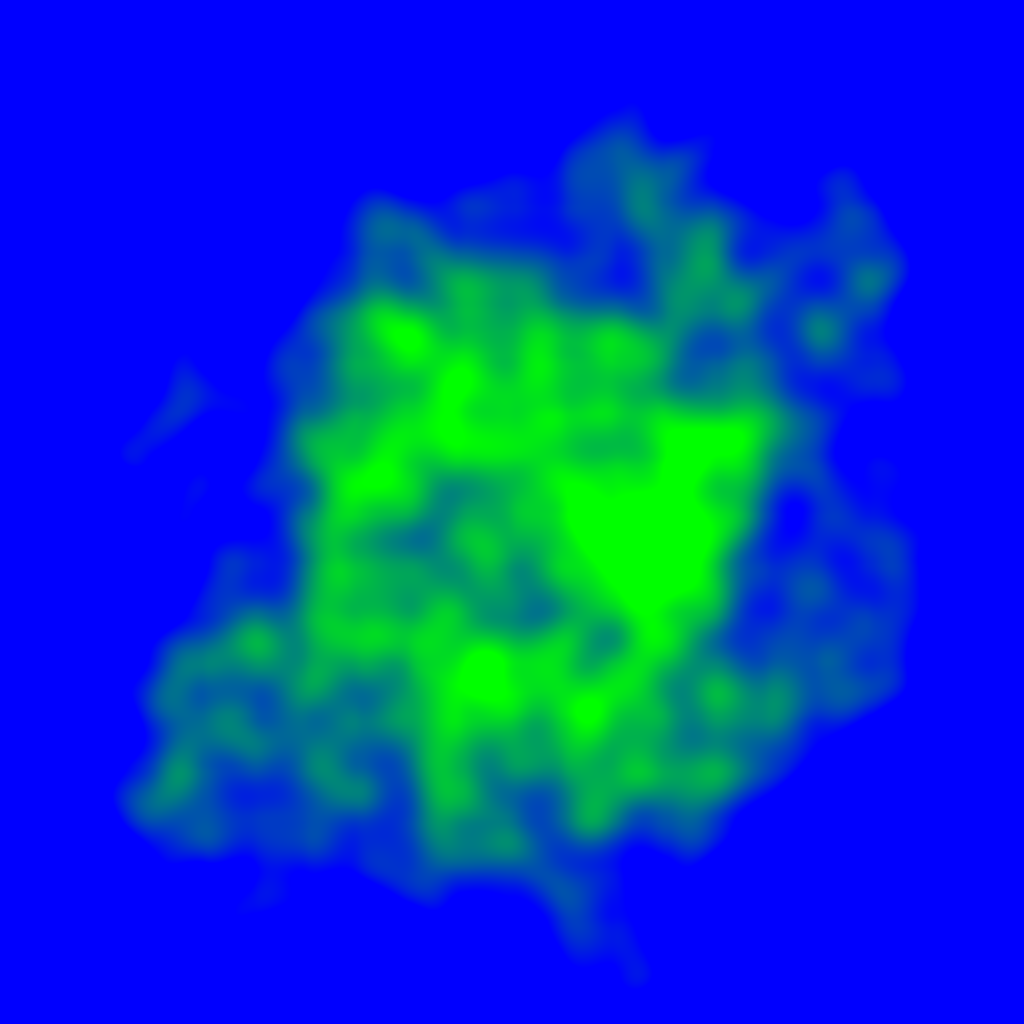
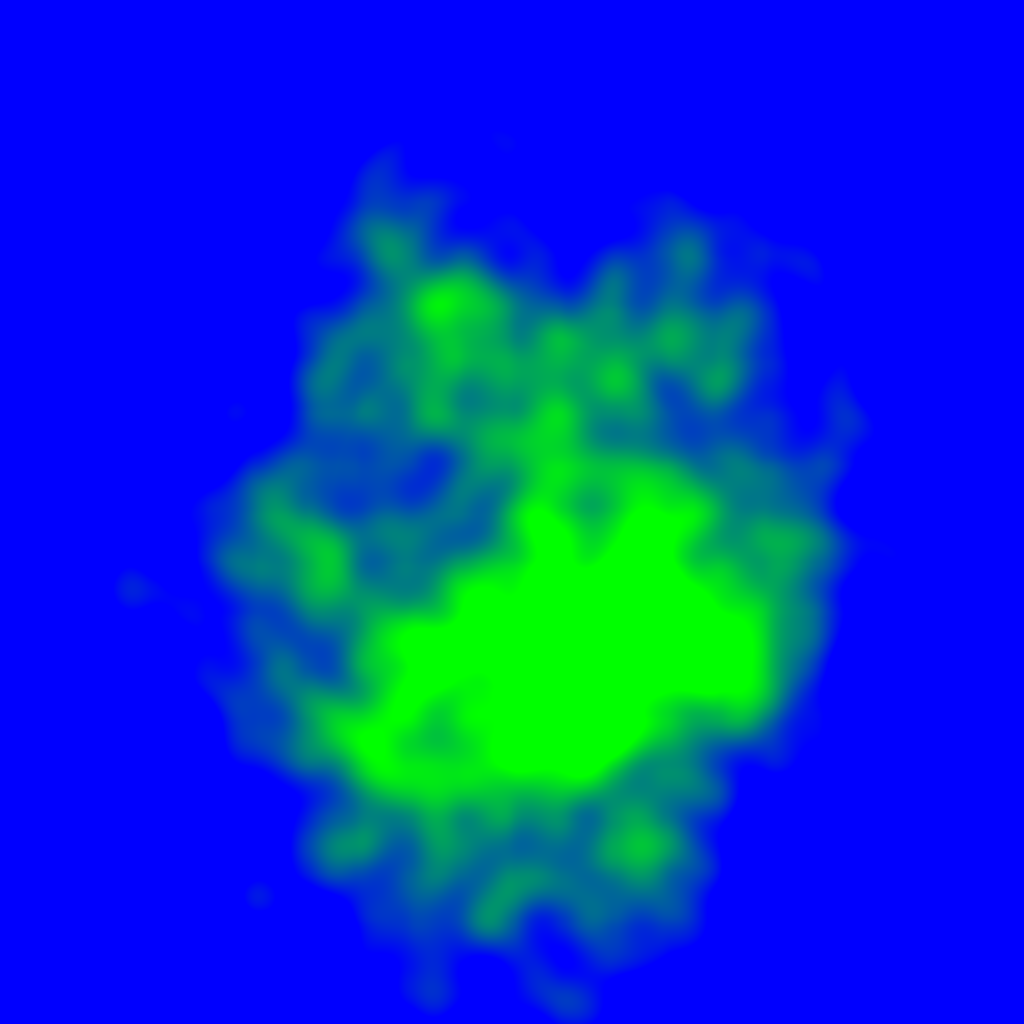
FraaemBuffrededrer :D

diff --git a/feature showcase/ProceduralWorldGenerator/src/main/java/net/mega2223/aguaengine3d/featureshowcase/proceduralworldgenerator/WorldGen.java b/feature showcase/ProceduralWorldGenerator/src/main/java/net/mega2223/aguaengine3d/featureshowcase/proceduralworldgenerator/WorldGen.java
@@ -2,19 +2,24 @@ package net.mega2223.aguaengine3d.featureshowcase.proceduralworldgenerator;
 
 import net.mega2223.aguaengine3d.graphics.objects.Renderable;
 import net.mega2223.aguaengine3d.graphics.objects.RenderingContext;
+import net.mega2223.aguaengine3d.graphics.objects.ScriptedSequence;
+import net.mega2223.aguaengine3d.graphics.objects.modeling.InterfaceComponent;
 import net.mega2223.aguaengine3d.graphics.objects.modeling.Model;
 import net.mega2223.aguaengine3d.graphics.objects.modeling.procedural.noisegenerator.Noise;
 import net.mega2223.aguaengine3d.graphics.objects.modeling.procedural.noisegenerator.PerlinNoise;
 import net.mega2223.aguaengine3d.graphics.objects.modeling.procedural.noisegenerator.StackedNoises;
+import net.mega2223.aguaengine3d.graphics.objects.shadering.DisplayComponentShaderProgram;
 import net.mega2223.aguaengine3d.graphics.objects.shadering.ShaderProgram;
 import net.mega2223.aguaengine3d.graphics.objects.shadering.SolidColorShaderProgram;
 import net.mega2223.aguaengine3d.graphics.utils.RenderingManager;
 import net.mega2223.aguaengine3d.graphics.utils.ShaderDictonary;
 import net.mega2223.aguaengine3d.graphics.utils.ShaderManager;
+import net.mega2223.aguaengine3d.graphics.utils.TextureManager;
 import net.mega2223.aguaengine3d.mathematics.MatrixTranslator;
 import net.mega2223.aguaengine3d.misc.Utils;
 import net.mega2223.aguaengine3d.objects.WindowManager;
 import org.lwjgl.glfw.GLFW;
+import org.lwjgl.opengl.GL30;
 
 import java.util.ArrayList;
 import java.util.Collection;
@@ -25,7 +30,7 @@ import java.util.concurrent.ArrayBlockingQueue;
 public class WorldGen {
 
     public static final String TITLE = "World Generator :o";
-    public static final float SPEED = .05F;
+    public static final float SPEED = .05F * 100;
     public static final int TARGET_FPS = 60;
     public static long framesElapsed = 0L;
 
@@ -41,6 +46,7 @@ public class WorldGen {
     static WindowManager manager = new WindowManager(300,300,TITLE);
     static float[] camera = new float[4];
     public static final List<Integer> generatedLocations = new LinkedList<>();
+    public static InterfaceComponent mapView;
 
     public static void main(String[] args) {
         //GLFW, OPENGL & Context setup:
@@ -66,18 +72,41 @@ public class WorldGen {
         ShaderDictonary globalDict = ShaderManager.getGlobalShaderDictionary();
         globalDict.add(ShaderDictonary.fromFile(Utils.SHADERS_DIR + "\\DefaultShaderDictionary.sdc"));
 
+        //Map setup:
+        final int[] mapViewTexture = RenderingManager.genTextureFrameBufferObject(128,128);
+        mapView = new InterfaceComponent(
+                new float[]{0,0,0,0, 0,.5F,0,0, .5F,0,0,0, .5F,.5F,0,0},
+                new int[]{0,1,2,2,1,3},
+                new float[]{0,0, 0,1, 1,0, 1,1},
+                mapViewTexture[1],1F
+        );
+        context.addScript(new ScriptedSequence("MapRenderer") {
+            final float[] proj = new float[16];
+            final GrassShaderProgram noTranslation = new GrassShaderProgram();
+            @Override
+            protected void preLogic(int iteration, RenderingContext context) {
+                GL30.glBindFramebuffer(GL30.GL_FRAMEBUFFER,mapViewTexture[0]);
+                GL30.glClear(GL30.GL_DEPTH_BUFFER_BIT | GL30.GL_COLOR_BUFFER_BIT);
+                GL30.glViewport(0,0,64,64);
+                MatrixTranslator.generatePerspectiveProjectionMatrix(proj, 0.01f, 1000f, (float) Math.toRadians(45), 1);
+                MatrixTranslator.applyLookTransformation(proj, camera, (float) (camera[0] + Math.sin(camera[3])), camera[1], (float) (camera[2] + Math.cos(camera[3])), 0, 1, 0);
+                context.doCustomRender(proj);
+                GL30.glBindFramebuffer(GL30.GL_FRAMEBUFFER,0);
+            }
+        });
+        context.addObject(mapView);
         //Logic setup:
 
         modelAssembler.start();
 
         PerlinNoise perlinMajor = new PerlinNoise(37,37);
         perlinMajor.setTranslations(0,0,512,512);
-        perlinMajor.setHeightScale(40);
-        perlinMajor.setDislocation(-6);
+        perlinMajor.setHeightScale(-60);
+        perlinMajor.setDislocation(-13);
 
         PerlinNoise perlinMinor1 = new PerlinNoise(32, 32);
         perlinMinor1.setTranslations(0,0,256,256);
-        perlinMinor1.setHeightScale(30);
+        perlinMinor1.setHeightScale(-30);
 
         PerlinNoise perlinMinor2 = new PerlinNoise(33, 33);
         perlinMinor2.setTranslations(0,0,128,128);
@@ -142,6 +171,7 @@ public class WorldGen {
         readyToUse.clear();
     }
     private static final float[] proj = new float[16];
+
     public static void doRenderLogic(){
         MatrixTranslator.generatePerspectiveProjectionMatrix(proj, 0.01f, 1000f, (float) Math.toRadians(45), manager.viewportSize[0], manager.viewportSize[1]);
         MatrixTranslator.applyLookTransformation(proj, camera, (float) (camera[0] + Math.sin(camera[3])), camera[1], (float) (camera[2] + Math.cos(camera[3])), 0, 1, 0);

diff --git a/src/main/java/net/mega2223/aguaengine3d/graphics/utils/WorldspaceDataVisualizer.java b/src/main/java/net/mega2223/aguaengine3d/graphics/utils/WorldspaceDataVisualizer.java
@@ -12,12 +12,12 @@ public abstract class WorldspaceDataVisualizer implements Renderable {
     }
 
     @Override
-    public void doLogic(int itneration) {
-        object.doLogic(itneration);
+    public void doLogic(int iteration) {
+        object.doLogic(iteration);
     }
     @Override
-    public void setUniforms(int itneration, float[] projectionMatrix) {
-        object.setUniforms(itneration,projectionMatrix);
+    public void setUniforms(int iteration, float[] projectionMatrix) {
+        object.setUniforms(iteration,projectionMatrix);
     }
     @Override
     public ShaderProgram getShader() {
@@ -37,8 +37,8 @@ public abstract class WorldspaceDataVisualizer implements Renderable {
         line.setStart(x,y,z);
         WorldspaceDataVisualizer visualizer = new WorldspaceDataVisualizer(line) {
             @Override
-            public void doLogic(int itneration) {
-                super.doLogic(itneration);
+            public void doLogic(int iteration) {
+                super.doLogic(iteration);
                 line.setEnd(x + memoryAccess[0], y + memoryAccess[1], z + memoryAccess[2]);
             }
         };
@@ -50,8 +50,8 @@ public abstract class WorldspaceDataVisualizer implements Renderable {
         line.setStart(beginningMemoryAcess[0],beginningMemoryAcess[1],beginningMemoryAcess[2]);
         WorldspaceDataVisualizer visualizer = new WorldspaceDataVisualizer(line) {
             @Override
-            public void doLogic(int itneration) {
-                super.doLogic(itneration);
+            public void doLogic(int iteration) {
+                super.doLogic(iteration);
                 line.setStart(beginningMemoryAcess[0],beginningMemoryAcess[1],beginningMemoryAcess[2]);
                 line.setEnd(beginningMemoryAcess[0] + endMemoryAccess[0], beginningMemoryAcess[1] + endMemoryAccess[1], beginningMemoryAcess[2] + endMemoryAccess[2]);
             }

diff --git a/src/main/java/net/mega2223/aguaengine3d/graphics/objects/RenderingContext.java b/src/main/java/net/mega2223/aguaengine3d/graphics/objects/RenderingContext.java
@@ -11,7 +11,7 @@ public class RenderingContext implements Comparator<Renderable> {
     protected final List<Renderable> objects = new ArrayList<>();
     protected final List<ScriptedSequence> scripts = new ArrayList<>();//perhaps have 2 lists?
 
-    int itneration = 0;
+    int iteration = 0;
     float[] backGroundColor = {.5f,.5f,.6f,1};
     final float[] fogDetails = new float[2];
     protected boolean active = false;
@@ -36,13 +36,13 @@ public class RenderingContext implements Comparator<Renderable> {
     public void doLogic(){
         if(!active){return;}
         for(ScriptedSequence s : scripts){
-            s.preLogic(itneration,this);
+            s.preLogic(iteration,this);
         }
-        for(Renderable o : objects){o.doLogic(itneration);}
+        for(Renderable o : objects){o.doLogic(iteration);}
         for(ScriptedSequence s : scripts){
-            s.postLogic(itneration,this);
+            s.postLogic(iteration,this);
         }
-        itneration++;
+        iteration++;
     }
 
     private final float[] bufferTransMatrix = new float[16];
@@ -57,14 +57,14 @@ public class RenderingContext implements Comparator<Renderable> {
     /** Assumes that the rendering context is already in place */
     public void doCustomRender(float[] projectionMatrix){
         for(Renderable m : objects){
-            m.setUniforms(itneration,projectionMatrix);
+            m.setUniforms(iteration,projectionMatrix);
             m.draw();
         }
     }
 
     public void doCustomRenderForceShader(float[] projectionMatrix, ShaderProgram shaderProgram){
         for(Renderable m : objects){
-            m.setUniforms(itneration,projectionMatrix);
+            m.setUniforms(iteration,projectionMatrix);
             m.drawForceShader(shaderProgram);
         }
     }

diff --git a/src/main/java/net/mega2223/aguaengine3d/graphics/utils/RenderingManager.java b/src/main/java/net/mega2223/aguaengine3d/graphics/utils/RenderingManager.java
@@ -90,17 +90,17 @@ public class RenderingManager {
     public static int[] genTextureFrameBufferObject(int tX, int tY) { //todo maybe move the texture logic to a method in the TextureManager class?
         int id = genFrameBufferObject();
         int texture = TextureManager.generateImageTexture(tX,tY);
-        int depthBuffer = GL30.glGenRenderbuffers();
+        int renderBuffer = GL30.glGenRenderbuffers();
         GL30.glBindTexture(GL30.GL_TEXTURE_2D, texture);
         GL30.glBindFramebuffer(GL30.GL_FRAMEBUFFER, id);
-        GL30.glBindRenderbuffer(GL30.GL_RENDERBUFFER,depthBuffer);
+        GL30.glBindRenderbuffer(GL30.GL_RENDERBUFFER,renderBuffer);
         GL30.glFramebufferTexture2D(GL30.GL_FRAMEBUFFER, GL30.GL_COLOR_ATTACHMENT0, GL30.GL_TEXTURE_2D, texture, 0);
         GL30.glRenderbufferStorage(GL30.GL_RENDERBUFFER,GL30.GL_DEPTH_COMPONENT,tX,tY);
-        GL30.glFramebufferRenderbuffer(GL30.GL_FRAMEBUFFER,GL30.GL_DEPTH_ATTACHMENT,GL30.GL_RENDERBUFFER,depthBuffer);
+        GL30.glFramebufferRenderbuffer(GL30.GL_FRAMEBUFFER,GL30.GL_DEPTH_ATTACHMENT,GL30.GL_RENDERBUFFER,renderBuffer);
         GL30.glBindFramebuffer(GL30.GL_FRAMEBUFFER, 0);
         GL30.glBindTexture(GL30.GL_TEXTURE_2D, 0);
         GL30.glBindRenderbuffer(GL30.GL_RENDERBUFFER,0);
-        return new int[]{id, texture, depthBuffer};
+        return new int[]{id, texture, renderBuffer};
     }
 
     public static int[] genDepthFrameBufferObject(int tX, int tY){

diff --git a/src/main/java/net/mega2223/aguaengine3d/graphics/objects/modeling/InterfaceComponent.java b/src/main/java/net/mega2223/aguaengine3d/graphics/objects/modeling/InterfaceComponent.java
@@ -8,14 +8,14 @@ public class InterfaceComponent extends Model{
 
     float[] textureCoords;
 
-    public InterfaceComponent(float[] vertices, int[] indexes, float[] textureCoords, int texture,float aspectRatio, DisplayComponentShaderProgram shaderProgram) {
-        super(vertices, indexes, shaderProgram);
+    public InterfaceComponent(float[] vertices, int[] indices, float[] textureCoords, int texture,float aspectRatio, DisplayComponentShaderProgram shaderProgram) {
+        super(vertices, indices, shaderProgram);
         this.shaderProgram = (DisplayComponentShaderProgram) getShader();
         this.textureCoords = textureCoords;
     }
 
-    public InterfaceComponent(float[] vertices, int[] indexes, float[] textureCoords, int texture,float aspectRatio) {
-        super(vertices, indexes, new DisplayComponentShaderProgram(texture, textureCoords,aspectRatio));
+    public InterfaceComponent(float[] vertices, int[] indices, float[] textureCoords, int texture,float aspectRatio) {
+        super(vertices, indices, new DisplayComponentShaderProgram(texture, textureCoords,aspectRatio));
         shaderProgram = (DisplayComponentShaderProgram) getShader();
         this.textureCoords = textureCoords;
     }

diff --git a/src/main/java/net/mega2223/aguaengine3d/graphics/objects/modeling/TexturedModel.java b/src/main/java/net/mega2223/aguaengine3d/graphics/objects/modeling/TexturedModel.java
@@ -156,7 +156,7 @@ public class TexturedModel extends Model{
     public static void debugTexturedModel(TexturedModel model){
         float[] vertices = model.vertices;
         float[] textureData = model.getTextureShift();
-        int[] indexes = model.indices;
+        int[] indices = model.indices;
 
         StringBuilder debug = new StringBuilder("Debugging model with " + vertices.length + " vertices\n");
         debug.append("It is using the shaderProgram ").append(model.shader.getID());
@@ -168,10 +168,10 @@ public class TexturedModel extends Model{
         }
         debug.append("\nThis model is constructed to build in the order [");
 
-        for (int i = 0; i < indexes.length-1; i++) {
-            debug.append(indexes[i]).append(",");
+        for (int i = 0; i < indices.length-1; i++) {
+            debug.append(indices[i]).append(",");
         }
-        debug.append(indexes[indexes.length - 1]).append("]");
+        debug.append(indices[indices.length - 1]).append("]");
         System.out.println(debug);
     }
 

diff --git a/src/main/java/net/mega2223/aguaengine3d/physics/objects/RigidBodySystem.java b/src/main/java/net/mega2223/aguaengine3d/physics/objects/RigidBodySystem.java
@@ -25,7 +25,7 @@ public class RigidBodySystem extends PhysicsSystem {
     private final float[] rw = new float[4]; //stores the rotation quaternion to be used in update operations
     private final float[] rotationMatrix = new float[16];//stores the translation matrix multiplied by the rotation matrix
     private final float[] rotationRadians = new float[3];//to be updated each object update, dependent on the quaternion rotation representation
-    private final float[] inverseInnertialTensorWorldspace = new float[9];//stores the inverse inertia tensor in worldspace coords, updates each itneration
+    private final float[] inverseInnertialTensorWorldspace = new float[9];//stores the inverse inertia tensor in worldspace coords, updates each iteration
     //static variables meant to be used for physics calculations
     private static final float[] bufferM4 = new float[16];
     private static final float[] bufferVec = new float[4];

diff --git a/src/main/java/net/mega2223/aguaengine3d/graphics/objects/modeling/Model.java b/src/main/java/net/mega2223/aguaengine3d/graphics/objects/modeling/Model.java
@@ -176,7 +176,7 @@ public class Model implements Renderable {
     }
 
     //for subclasses
-    public void doLogic(int itneration){
+    public void doLogic(int iteration){
 
     }
 
@@ -219,9 +219,9 @@ public class Model implements Renderable {
         this.textureCoordsVBO = textureCoordsVBO;
     }
 
-    public void setUniforms(int itneration, float[] projectionMatrix){
+    public void setUniforms(int iteration, float[] projectionMatrix){
         MatrixTranslator.generateTranslationMatrix(bufferTranslationMatrix,coords);
-        shader.setUniforms(itneration,bufferTranslationMatrix,projectionMatrix);
+        shader.setUniforms(iteration,bufferTranslationMatrix,projectionMatrix);
     }
 
 }

diff --git a/src/main/java/net/mega2223/aguaengine3d/graphics/objects/modeling/procedural/StructureUtils.java b/src/main/java/net/mega2223/aguaengine3d/graphics/objects/modeling/procedural/StructureUtils.java
@@ -15,7 +15,7 @@ public class StructureUtils {
 
     public static TexturedModel generateWallModel(float sx, float sz, float ex, float ez, float top, float base, int texture){
         float[] coords = {sx,base,sz,0 , sx,top,sz,0 , ex,base,ez,0 , ex,top,ez,0};
-        int[] indexes = {0,1,2, 2,3,1};
+        int[] indices = {0,1,2, 2,3,1};
 
         float xD = ex - sx;
         float zD = ez - sz;
@@ -24,7 +24,7 @@ public class StructureUtils {
 
         float[] textureShift = {0,0 , 0,-dif , r,0 , r,-dif};
         return new TexturedModel(
-                coords,indexes,textureShift,texture
+                coords,indices,textureShift,texture
         );
     }
 

diff --git a/src/main/java/net/mega2223/aguaengine3d/graphics/objects/shadering/ShaderProgramTemplate.java b/src/main/java/net/mega2223/aguaengine3d/graphics/objects/shadering/ShaderProgramTemplate.java
@@ -26,7 +26,7 @@ public abstract class ShaderProgramTemplate implements ShaderProgram{
         projectionMatrixLocation = GL30.glGetUniformLocation(getID(),"projection");
         translationMatrixLocation = GL30.glGetUniformLocation(getID(),"translation");
         rotationMatrixLocation = GL30.glGetUniformLocation(getID(),"rotation");
-        itnerationLocation = GL30.glGetUniformLocation(getID(),"itneration");
+        itnerationLocation = GL30.glGetUniformLocation(getID(),"iteration");
         GL30.glUseProgram(getID());
         //fixme this may be messing up the depth display shader somehow
         for (int i = 0; i < MAX_LIGHTS; i++) {

diff --git a/src/main/java/net/mega2223/aguaengine3d/graphics/objects/misc/Line.java b/src/main/java/net/mega2223/aguaengine3d/graphics/objects/misc/Line.java
@@ -52,14 +52,14 @@ public class Line implements Renderable {
     }
 
     @Override
-    public void doLogic(int itneration) {
+    public void doLogic(int iteration) {
 
     }
 
     @Override
-    public void setUniforms(int itneration, float[] projectionMatrix) {
+    public void setUniforms(int iteration, float[] projectionMatrix) {
         MatrixTranslator.generateTranslationMatrix(transMatBuffer,coords[0],coords[1],coords[2]);
-        shaderProgram.setUniforms(itneration,transMatBuffer,projectionMatrix);
+        shaderProgram.setUniforms(iteration,transMatBuffer,projectionMatrix);
     }
 
     @Override

diff --git a/src/main/java/net/mega2223/aguaengine3d/graphics/objects/modeling/Skybox.java b/src/main/java/net/mega2223/aguaengine3d/graphics/objects/modeling/Skybox.java
@@ -38,7 +38,7 @@ public class Skybox implements Renderable {
     }
 
     @Override
-    public void doLogic(int itneration) {
+    public void doLogic(int iteration) {
 
     }
 
@@ -47,8 +47,8 @@ public class Skybox implements Renderable {
     };
 
     @Override
-    public void setUniforms(int itneration, float[] projectionMatrix) {
-        program.setUniforms(itneration,translationMatrix,projectionMatrix);
+    public void setUniforms(int iteration, float[] projectionMatrix) {
+        program.setUniforms(iteration,translationMatrix,projectionMatrix);
     }
 
     @Override
